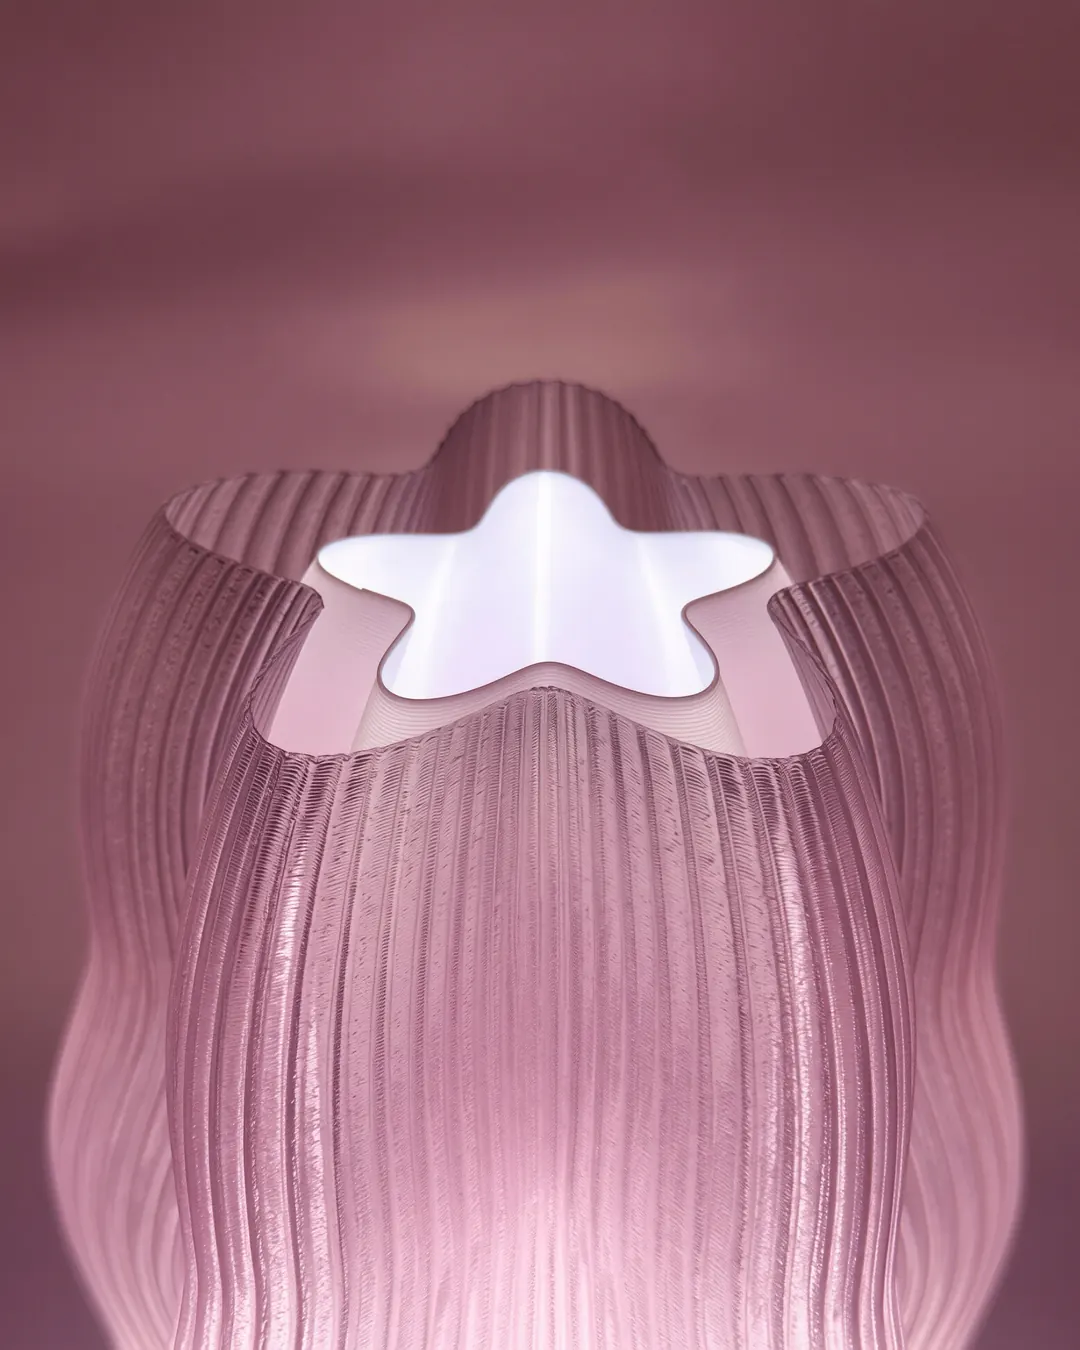
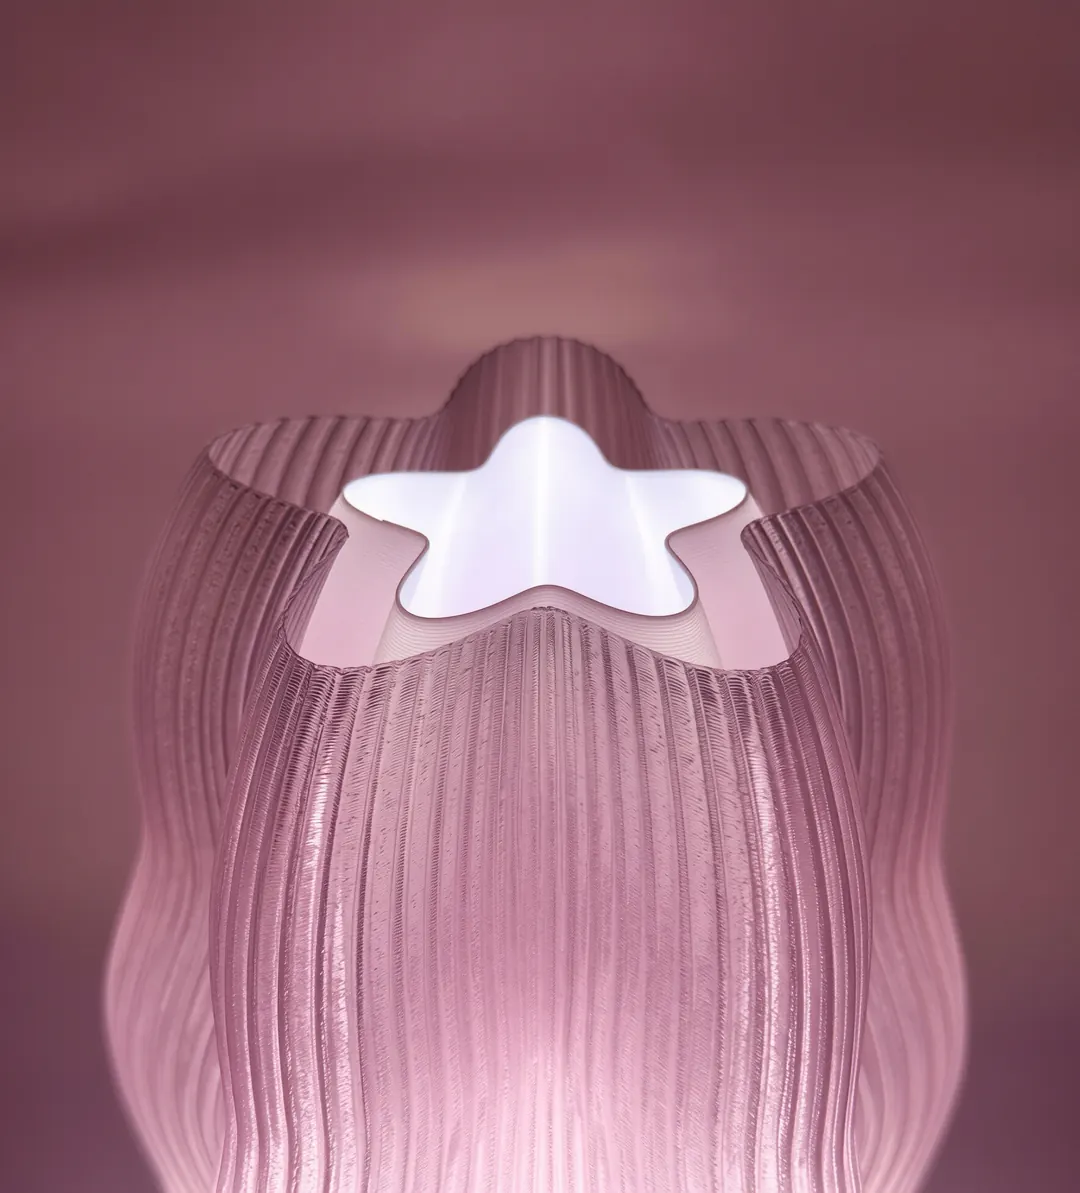
Change product photo crop to 2:2.21
RATIO = (200, 221) -> 1080x1193; slides use aspect-ratio 200/221;
IMG_VERSION bumped to 10.

Claude-Session: https://claude.ai/code/session_01J1uzjjSWBcVbjXmWzqCTLW

diff --git a/index.html b/index.html
@@ -93,7 +93,7 @@
     .carousel { width: 100%; overflow: hidden; touch-action: pan-y; user-select: none; -webkit-user-select: none; }
     .carousel:focus-visible { outline: 2px solid var(--ink); outline-offset: -2px; }
     .track { display: flex; will-change: transform; }
-    .slide { position: relative; flex: 0 0 100%; aspect-ratio: 4 / 5; background: var(--dot) center / cover no-repeat; }
+    .slide { position: relative; flex: 0 0 100%; aspect-ratio: 200 / 221; background: var(--dot) center / cover no-repeat; }
     .slide img { width: 100%; height: 100%; object-fit: cover; pointer-events: none; -webkit-user-drag: none; }
     .slide .layer-b { position: absolute; inset: 0; opacity: 0; }
     .dots { display: flex; gap: 5px; margin-top: 17px; }
@@ -193,7 +193,7 @@
     // 產品資料：加新顏色或新產品就改這裡
     // fadeFirst: true 時，第 1 → 2 張改成原地漸變（像開關燈），其餘照片左右滑動
     // 換圖後改這個版本號，瀏覽器就會重新下載照片，不會顯示舊的快取
-    const IMG_VERSION = '9';
+    const IMG_VERSION = '10';
 
     const product = {
       line: 'Lamp Saku',
@@ -204,16 +204,16 @@
       ],
     };
 
-    // 每張產品照的 16×20px 模糊縮圖，直接寫在網頁裡：照片還沒下載完時先顯示這個，不會出現空白
+    // 每張產品照的 16×17px 模糊縮圖，直接寫在網頁裡：照片還沒下載完時先顯示這個，不會出現空白
     // 換照片時要重新產生（跟換圖一起做）
     const PLACEHOLDERS = {
[14 lines of base64/hex data omitted]
     };
     const photoSrc = (v, i) => 'img/' + v.id + '-' + i + '.webp?v=' + IMG_VERSION;
 

diff --git a/tools/build_images.py b/tools/build_images.py
@@ -19,7 +19,7 @@ OUT = ROOT / 'img'
 HTML = ROOT / 'index.html'
 
 # 照片比例（寬:高），改這裡時 index.html 的 .slide aspect-ratio 也要一起改
-RATIO = (4, 5)  # 2:2.5
+RATIO = (200, 221)  # 2:2.21
 WIDTH = 1080
 
 # 資料夾 → 網站上的款式 id
